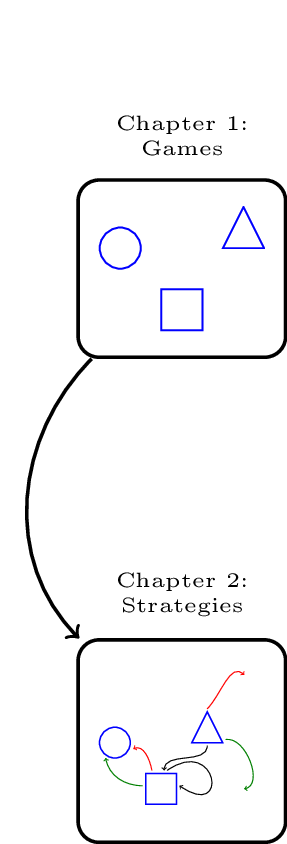
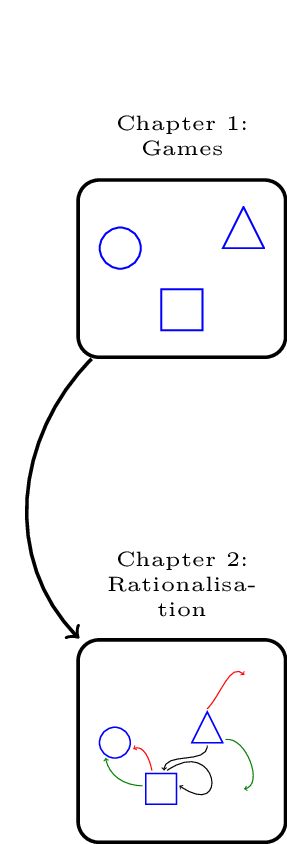
Write skeleton for rationalisation chapter.

Changed region(s): [[0.3624, 0.6469, 0.892, 0.7393]]

diff --git a/chapters/introduction/assets/chapter_relationship_diagram/main.tex b/chapters/introduction/assets/chapter_relationship_diagram/main.tex
@@ -15,10 +15,10 @@
 
     % First row of chapters
     \imagenode{games}{(-3, 1)}{Chapter 1: Games}
-    \imagenode{strategies}{(-3, -3)}{Chapter 2: Strategies}
+    \imagenode{rationalisation}{(-3, -3)}{Chapter 2: Rationalisation}
 
     % Edges showing relationships
-    \draw[->] (games) to [out=-135, in=135] (strategies);
+    \draw[->] (games) to [out=-135, in=135] (rationalisation);
 
 \end{tikzpicture}
 \end{document}

diff --git a/chapters/rationalisation/main.md b/chapters/rationalisation/main.md
@@ -1,0 +1,34 @@
+---
+kernelspec:
+  name: python3
+  display_name: "Python 3"
+---
+
+# Rationalisation
+
+```{figure} ./logo/main.png
+:alt: Logo of chapter
+:height: 50px
+```
+
+## Motivating Example
+
+## Theory
+
+### Definition of an incomplete stategy profile
+
+### Definition of dominance (weak and strict)
+
+### Definition of best responses
+
+### Definition of backwards induction
+
+### Common knowledge of rationality
+
+## Exercises
+
+## Programming
+
+## Notable Research
+
+## Conclusion
